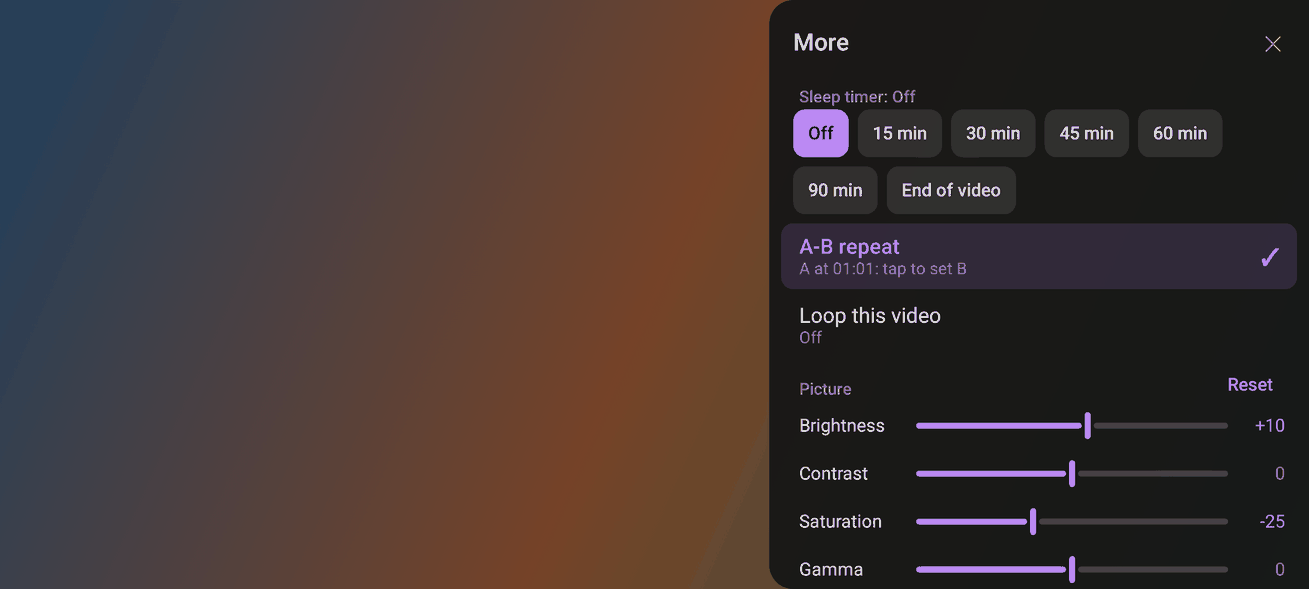
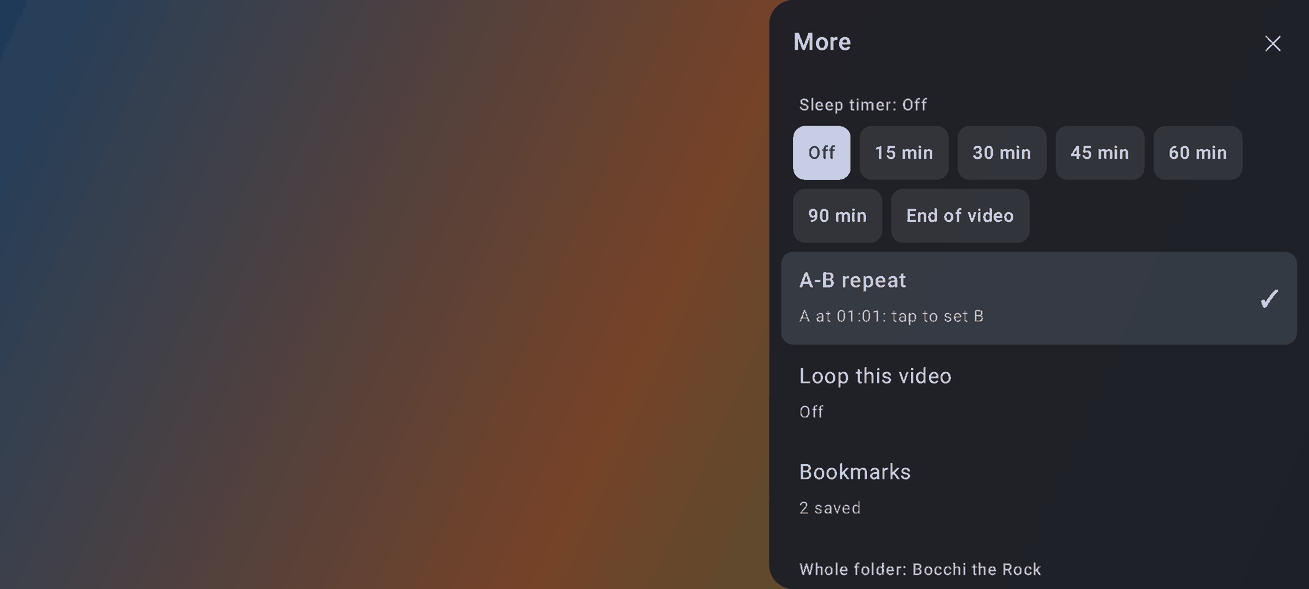
0.8.0 (versionCode 6): changelog, Phase 12 tasks and progress rows, roadmap, README features
- TASKS.md Phase 12 (P12-01..07) with acceptance; PROGRESS rows; P10-06
  closed as won't do on this phone (no ADPF); Gradle row 9.8.2.
- ROADMAP: known issues updated (Anime4K Vulkan-only, subtitle folders,
  ADPF); P6-05 and P8-04 point to tools/overnight.sh.
- AGENT_RULES: shower_check.sh, overnight.sh, release.sh.
- Screenshots: cards, bookmarks, More with Bookmarks and Whole folder,
  Subtitles with the line buttons.

Claude-Session: https://claude.ai/code/session_01PYWonGPXYuoNuvyidgnRsM

diff --git a/app/src/test/java/com/vibeplayer/ui/player/PanelScreenshotTest.kt b/app/src/test/java/com/vibeplayer/ui/player/PanelScreenshotTest.kt
@@ -68,7 +68,7 @@ class PanelScreenshotTest {
 
     @Test
     fun subtitlesLandscape() = shot("subtitles_land") {
-        SubtitleTrackSheet(tracks, selectedTrackId = 2, onSelectTrack = {}, onDismiss = {}, onOpenSync = {}, onLoadSubtitle = {})
+        SubtitleTrackSheet(tracks, selectedTrackId = 2, onSelectTrack = {}, onDismiss = {}, onOpenSync = {}, onLoadSubtitle = {}, onSubSeek = {})
     }
 
     @Test
@@ -108,8 +108,39 @@ class PanelScreenshotTest {
         MoreSheet(
             sleepTimer = null, onSetSleepTimer = {}, abLoopAMs = 61_000L, abLoopBMs = null, onCycleAbLoop = {},
             loopFile = false, onToggleLoopFile = {}, rotationMode = RotationMode.AUTO, onCycleRotation = {}, onDismiss = {},
-            pictureAdjust = com.vibeplayer.player.PictureAdjust(brightness = 10, saturation = -25)
+            pictureAdjust = com.vibeplayer.player.PictureAdjust(brightness = 10, saturation = -25),
+            bookmarkCount = 2, onOpenBookmarks = {},
+            folderShow = FolderShowControls(
+                show = com.vibeplayer.playback.FolderShow("/sdcard/Anime/Bocchi the Rock", speed = 1.25f, autoSkipChapters = true),
+                currentSpeed = 1.25
+            )
         )
+    }
+
+    @Test
+    fun bookmarksLandscape() = shot("bookmarks_land") {
+        BookmarkSheet(
+            bookmarks = listOf(
+                com.vibeplayer.data.db.Bookmark(id = 1, fileKey = "k", positionMs = 95_000L, label = "Opening"),
+                com.vibeplayer.data.db.Bookmark(id = 2, fileKey = "k", positionMs = 812_000L, label = "Part B")
+            ),
+            onAdd = {}, onJump = {}, onDelete = {}, onDismiss = {}
+        )
+    }
+
+    @Test
+    fun cardsLandscape() = shot("cards_land") {
+        Box(Modifier.fillMaxSize()) {
+            ResumeChip(
+                info = com.vibeplayer.playback.ResumeInfo("/a/ep01.mkv", 750_000L, 1L), onStartOver = {},
+                modifier = Modifier.align(Alignment.BottomStart).padding(start = 24.dp, bottom = 40.dp)
+            )
+            UpNextCard(
+                upNext = com.vibeplayer.playback.UpNext("/a/ep01.mkv", "/a/ep02.mkv", "[grp] Bocchi the Rock! - 02.mkv", Long.MAX_VALUE / 2),
+                onPlayNow = {}, onCancel = {},
+                modifier = Modifier.align(Alignment.BottomEnd).padding(end = 24.dp, bottom = 40.dp)
+            )
+        }
     }
 
     @Test

diff --git a/PROGRESS.md b/PROGRESS.md
@@ -12,7 +12,7 @@ Latest stable, looked up from official sources during P0 (AGENT_RULES.md, Depend
 | Android Studio / JetBrains Runtime (build JDK) | 25.0.3 (build 25.0.3+-15898627-b508.16) | /home/rava/.local/share/JetBrains/Toolbox/apps/android-studio/jbr | Android Studio 2026.2.1 |
 | compileSdk / targetSdk | 37 / 37 | platforms;android-37.1 / build-tools 37.0.0 | Matches redwood device Android 17 (SDK 37) |
 | Android Gradle Plugin | 9.4.1 | https://dl.google.com/dl/android/maven2 | latest stable AGP release |
-| Gradle | 9.8.1 | https://services.gradle.org/distributions/ | latest stable Gradle release |
+| Gradle | 9.8.2 | https://services.gradle.org/distributions/ | latest stable Gradle release (2026-10-20; Gradle 10 not released) |
 | Kotlin | 2.4.21 | https://repo1.maven.org/maven2 | latest stable release (built-in AGP 9.4.1) |
 | Compose BOM | 2026.09.00 | https://dl.google.com/dl/android/maven2 | latest stable BOM |
 | Room | 2.8.5 | https://dl.google.com/dl/android/maven2 | latest stable release |
@@ -134,7 +134,7 @@ Latest stable, looked up from official sources during P0 (AGENT_RULES.md, Depend
 | P10-03 | Display cutout | DONE | AGY-1 | pending | Device check 2026-10-15: PlayerActivity layoutInDisplayCutoutMode = ALWAYS; tested in crop/zoom aspect mode; screenshot /tmp/vp_p10_03_zoom.png inspected showing video extending under punch-hole cutout edge-to-edge (2400x1080) and controls inset safely via WindowInsets.displayCutout; check_video.py VIDEO VISIBLE (non_black=79.9%, changed=79.5%). |
 | P10-04 | Back handling audit | DONE | AGY-1 | pending | Device check 2026-10-15: with the speed sheet open, back #1 closed the sheet (PlayerActivity still topResumedActivity); back #2 left the player (PlayerActivity onDestroy, MainActivity top, video list shown); back #3 returned to the folder list (library). No FATAL/ANR in logcat, app process alive (pid 16841) throughout. Manifest has enableOnBackInvokedCallback="true"; all back paths use BackHandler/OnBackPressedDispatcher, zero KEYCODE_BACK dependencies. |
 | P10-05 | Exit diagnostics | DONE | AGY-1 | pending | Device check 2026-10-15: backgrounded MainActivity, ran 'adb shell am kill com.vibeplayer' (process terminated); restarted MainActivity; logcat tag VibeExit logged: 'reason=USER_REQUESTED (10) desc=[KILL BACKGROUND] kill background pss=0 (0MB) rss=204914688 (195MB) timestamp=...'; recent exits also shown in Settings About section. |
-| P10-06 | ADPF performance hints | BLOCKED | CLAUDE-ADPF | pending | Code done; device check 2026-10-15 shows the device does NOT support ADPF, so the acceptance items cannot be met here. Unit tests (AdpfHintPolicyTest, 9) and :app:assembleDebug pass. Setting "Performance hints (experimental)" (default off); PerformanceHintController (IO) holds one session while playing for threads `vo`, `core`, `demux`, `dec/video`, `dav1d-worker*`, `av:*`; reports target or 1.5x target once per second from the drop counters (design in ARCHITECTURE.md); overlay row ADPF. Device check (redwood/lahaina, SDK 37): enabled the setting (verified checked=true + DataStore `performance_hints`), played /sdcard/Movies/vibeplayer-bench/av1_4k30_10bit.mp4 (check_video.py VIDEO VISIBLE, non_black=62.1%, changed=57.3%; VP log container-fps=30.0, hwdec-current=no, 3840x2160). Result: `adb shell dumpsys performance_hint` reports `Hint Session Support: false`, `HintSessionPreferredRate: -1`, `CPU/GPU Headroom Supported: false`, empty `Active Sessions`; `adb logcat -s VP-ADPF` shows `W VP-ADPF : ADPF unsupported: createHintSession returned null` (reproduced twice, incl. after force-stop); overlay shows `ADPF: unsupported` (not "on (n threads)"). Pause produced no "session closed" because no session was ever created. The code behaves exactly as designed for the unsupported case (ARCHITECTURE.md: "Unsupported (no service, null session, 3 throws in a row): logged once per process (VP-ADPF), overlay 'unsupported'"). Setting restored to OFF (checked=false, DataStore `08 00`). LEFT: the acceptance items (overlay "on (n threads)", dumpsys session for com.vibeplayer, created/closed logs on pause) require an ADPF-capable device; the A/B drops/battery comparison is likewise unverifiable here. No new dependencies. |
+| P10-06 | ADPF performance hints | BLOCKED | CLAUDE-ADPF | pending | Closed as won't do on this phone (2026-10-20): it has no ADPF support, so the acceptance can never be met here; the code stays, setting off. Code done; device check 2026-10-15 shows the device does NOT support ADPF, so the acceptance items cannot be met here. Unit tests (AdpfHintPolicyTest, 9) and :app:assembleDebug pass. Setting "Performance hints (experimental)" (default off); PerformanceHintController (IO) holds one session while playing for threads `vo`, `core`, `demux`, `dec/video`, `dav1d-worker*`, `av:*`; reports target or 1.5x target once per second from the drop counters (design in ARCHITECTURE.md); overlay row ADPF. Device check (redwood/lahaina, SDK 37): enabled the setting (verified checked=true + DataStore `performance_hints`), played /sdcard/Movies/vibeplayer-bench/av1_4k30_10bit.mp4 (check_video.py VIDEO VISIBLE, non_black=62.1%, changed=57.3%; VP log container-fps=30.0, hwdec-current=no, 3840x2160). Result: `adb shell dumpsys performance_hint` reports `Hint Session Support: false`, `HintSessionPreferredRate: -1`, `CPU/GPU Headroom Supported: false`, empty `Active Sessions`; `adb logcat -s VP-ADPF` shows `W VP-ADPF : ADPF unsupported: createHintSession returned null` (reproduced twice, incl. after force-stop); overlay shows `ADPF: unsupported` (not "on (n threads)"). Pause produced no "session closed" because no session was ever created. The code behaves exactly as designed for the unsupported case (ARCHITECTURE.md: "Unsupported (no service, null session, 3 throws in a row): logged once per process (VP-ADPF), overlay 'unsupported'"). Setting restored to OFF (checked=false, DataStore `08 00`). LEFT: the acceptance items (overlay "on (n threads)", dumpsys session for com.vibeplayer, created/closed logs on pause) require an ADPF-capable device; the A/B drops/battery comparison is likewise unverifiable here. No new dependencies. |
 | P10-07 | ProfilingManager triggers | DONE | AGY-1 | 30b4a3a | ProfilingManager triggers (ANOMALY, ANR, APP_FULLY_DRAWN) registered behind setting "Collect system profiles" (default OFF); result callback registered with tag VP-Prof on background executor; debug adb broadcast action system_trace/REQUEST_PROFILING for 10 s trace; unit tests pass; device check open. |
 | P10-08 | HDR output spike | DONE | AGY-1 | pending | Source analysis complete in docs/HDR.md with file:line citations: GLES is NO-GO (hardcoded SDR monitor, null attrib_list/hints); Vulkan vo=gpu is NO-GO; Vulkan vo=gpu-next is CONDITIONAL GO for PQ and HLG via libplacebo swapchain colorspace selection and SetHdrMetadataEXT (extended-range scRGB is NO-GO); app-side Window.colorMode, SurfaceView 10-bit format, and concrete device test plan documented. |
 | P10-10 | Background-audio hardening (Android 17) | DONE | CLAUDE-BGAUDIO | pending | Code + device checks done. Audit in docs/BG_AUDIO.md; fixes: foreground service started before focus request/resume (media session play, focus-gain resume, skip), foreground kept through transient focus loss, resume refused when the service cannot go foreground. Unit tests pass (`:player:testDebugUnitTest :app:testDebugUnitTest`). Device (Android 17, targetSdk 37, `cmd audio set-hardening throw`, restored to `disable` after): (a) Home + 60s screen-off still PLAYING; (c) media-key PLAY from the detached state (boundClients=0, service detached) resumes and re-enters foreground; (d) media-key NEXT from the detached state skips and resumes; (e) auto-advance with screen off; (f) simulated transient focus loss then gain resumes; (g) 10-min paused timeout destroys the service (`Destroy ServiceRecord`), then reopening the app plays with `Background started FGS: Allowed ... allowWiu:12`; (h) PiP playback + auto-advance. No `AudioHardening ... com.vibeplayer` line and no `Audio focus denied` in any case (last hardening line for the app is 00:34, before the fix). Case (b) (pause from the notification, then play from the notification) is NOT triggerable via adb: the service is not exported and the media notification is not in the uiautomator dump / is suppressed in PiP — left for the user to check by hand. Reviewer fix 2026-10-16: PiP onStop keeps playing only when the screen is off (PowerManager.isInteractive false) and background audio is on; a mini player closed by the user pauses again. |
@@ -151,6 +151,13 @@ Latest stable, looked up from official sources during P0 (AGENT_RULES.md, Depend
 | P11-11 | Subtitle text style | IN PROGRESS | CLAUDE-CLOUD | 4e3cd82 | 2026-10-20, cloud, no phone. Builds, unit tests pass, panels checked in Robolectric screenshots (docs/screenshots/panels). SubtitleSyncTest (2 new); option names and defaults from mpv 0.41 sub/osd.c. Left: device acceptance in TASKS.md. |
 | P11-12 | Equalizer | IN PROGRESS | CLAUDE-CLOUD | 1afe74d | 2026-10-20, cloud, no phone. Builds, unit tests pass, panels checked in Robolectric screenshots (docs/screenshots/panels). AudioFiltersTest (6). Left: device acceptance in TASKS.md. |
 | P11-13 | Browser extras | IN PROGRESS | CLAUDE-CLOUD | see git log (P11-13) | 2026-10-20, cloud, no phone. Builds, unit tests pass, panels checked in Robolectric screenshots (docs/screenshots/panels). WatchProgressTest, VideoSearchTest (ranking), BrowserScreenshotTest. Left: device acceptance in TASKS.md. |
+| P12-01 | Resume chip | IN PROGRESS | CLAUDE-CLOUD | see git log (P12-01) | 2026-10-20, cloud, no phone. Builds, unit tests, cards_land screenshot. Next: `p12_resume_chip` in tools/shower_check.sh. |
+| P12-02 | Up next countdown | IN PROGRESS | CLAUDE-CLOUD | see git log (P12-02) | 2026-10-20, cloud, no phone. UpNextTest, cards_land screenshot. Next: `p12_up_next`; the old autoplay and pip_autoadvance checks must still pass (5 s later). |
+| P12-03 | Bookmarks | IN PROGRESS | CLAUDE-CLOUD | see git log (P12-03) | 2026-10-20, cloud, no phone. Room 5 -> 6 (DatabaseMigration5To6Test), bookmarks_land screenshot. Next: `p12_bookmarks`, and an update install keeps the history (migration on the phone). |
+| P12-04 | Per-show (folder) speed and auto-skip | IN PROGRESS | CLAUDE-CLOUD | see git log (P12-04) | 2026-10-20, cloud, no phone. more_land screenshot. Next: `p12_folder_speed`, `p12_folder_lang`. |
+| P12-05 | Rename and delete from the browser | IN PROGRESS | CLAUDE-CLOUD | see git log (P12-05) | 2026-10-20, cloud, no phone. VideoFileActionsTest. Next: by hand (MANUAL p12_browser_tools): the Android consent dialog, then the list updates. |
+| P12-06 | Hidden folders | IN PROGRESS | CLAUDE-CLOUD | see git log (P12-06) | 2026-10-20, cloud, no phone. HiddenFolderTest. Next: by hand (MANUAL p12_browser_tools). |
+| P12-07 | Rotated phone clips upright; previous/next subtitle line | IN PROGRESS | CLAUDE-CLOUD | see git log | 2026-10-20, cloud, no phone. VideoRotationTest. Next: `p12_rotated_clip`, `p12_sub_line`. |
 | STAB-01 | Stability audit | DONE | CLAUDE-STAB | pending | Audit of lifecycle, threading, JNI, Room, DataStore, MediaStore, and lint. Hardened mpv_jni.c NULL/exception checks; verified Room migrations 1..5 in DatabaseMigrationTest; added DataStore corruption handler and catch for IOExceptions; added MediaStore SecurityException & missing column guards; moved container-fps read off mpv event thread; gated callbacks on !released; cancelled vulkan/gles checks and scope in PlayerEngine.release(); managed service observation coroutines in PlayerViewModel; resolved 42 lint errors (:app:lintDebug clean); noted ThumbnailEngine native extractor hr-seek=no keyframe limitation for reviewer. |
 
 

diff --git a/docs/ROADMAP.md b/docs/ROADMAP.md
@@ -31,14 +31,15 @@ Source of truth for task status is `PROGRESS.md` and `TASKS.md`; this is a summa
 - P7-03 recomposition counts with the controls visible; P7-06 a 10-minute power comparison (the P1-06 baseline
   has no power figure); P7-07 memory "before" values and seek-back and drop checks with the smaller cache (the
   targets themselves are met: 216 MB at 1080p, 110 MB in the browser after playback).
-- P8-01 a test shader visibly applied and removed; P8-02 Anime4K on OpenGL ES (compile fix in progress);
-  P8-03 GSR sharpening on a 720p clip.
+- P8-01 a test shader visibly applied and removed; P8-03 GSR sharpening on a 720p clip.
+- P11 and P12 (player extras, watching series): the by-hand checks in PROGRESS.md; P12 automatic checks in
+  `tools/shower_check.sh`.
 - HEVC 10-bit 4K drops: operating-rate hint to the decoder, confirmed by a device A/B, fix in progress.
 
 ## Planned
 
-- P6-04 / P6-05: 5-minute matrix and 30-minute stability runs per renderer.
-- P8-04: shader benchmark (5 minutes per preset on 1080p).
+- P6-04 / P6-05: 5-minute matrix and 30-minute stability runs per renderer (P6-05 in `tools/overnight.sh`).
+- P8-04: shader benchmark (5 minutes per preset on 1080p, Vulkan; in `tools/overnight.sh`).
 - P9: tuned native build (`-mcpu=cortex-a78`, ThinLTO) and comparison against the baseline build.
 
 ## Known issues
@@ -47,8 +48,10 @@ Source of truth for task status is `PROGRESS.md` and `TASKS.md`; this is a summa
   in 20 cold opens on the default copy-back row, 4 in 20 on zero-copy). The watchdog abandons the stuck handle
   and reopens the file within 6 to 10 s; none stayed black in 160 test opens, and no ANR in the
   60-open run that recorded it. The stall itself is not fixed.
-- Anime4K presets fail to compile one pass on OpenGL ES (fix in progress).
-- External subtitle files next to a video are not auto-loaded on Android 13+ (video-only storage access).
+- Anime4K runs on Vulkan only: the Adreno OpenGL ES compiler rejects its passes (0.7.0 shows a notice instead).
+- Subtitle files next to a video load automatically only from folders granted in Settings > Subtitle folders
+  (the app may only read videos on its own).
+- ADPF performance hints (P10-06) do nothing on this phone: it has no ADPF support.
 - Vulkan is experimental and depends on the owner's unfinished driver port.
 - The release is signed with a debug key (see README).
 

diff --git a/TASKS.md b/TASKS.md
@@ -811,3 +811,33 @@ audibly stronger in the bass without clipping; the mpv log shows the af change w
 rule), results ranked prefix / phrase / rest. *Accept*: a finished episode shows ✓ in the folder and search;
 "bocchi the rock" lists names that start with it first.
 
+## Phase 12: watching series (user request 2026-10-20)
+
+Built in a cloud session without the phone; `tools/shower_check.sh` runs the device checks (checks_p12.py) and
+`tools/overnight.sh` the long runs (P6-05, P8-04, full regression).
+
+**P12-01 Resume chip** — after a file opens at its saved position, "Resumed at 12:30 / Start over" for 8 s (bottom
+left); Start over seeks to 0. *Accept*: `p12_resume_chip` passes.
+
+**P12-02 Up next countdown** — at the end of a file with Auto-play next on, an "Up next" card with the next file's
+name counts down (Settings: Off, 5, 10, 15 s; default 5) with Play now and Cancel; seeking back or opening another
+file drops it; in PiP the card is hidden and the countdown still runs. *Accept*: `p12_up_next`, `autoplay` and
+`pip_autoadvance` pass.
+
+**P12-03 Bookmarks** — Room 6 `bookmarks` (file key, position, chapter label); More > Bookmarks: + Here, tap to
+jump, x to delete. *Accept*: `p12_bookmarks` passes; an update install over 0.7.0 keeps the history.
+
+**P12-04 Per-show settings** — folder_settings gains speed and autoSkipChapters. More > Whole folder: use the
+current speed for every file of the folder that has no speed of its own; auto-skip App / On / Off for the folder.
+*Accept*: `p12_folder_speed` and `p12_folder_lang` pass.
+
+**P12-05 Rename and delete** — long-press a video (folder view, search): Rename or Delete through MediaStore write /
+delete requests (the app only reads media); history and bookmarks move with a rename and go with a delete.
+*Accept*: by hand (MANUAL p12_browser_tools).
+
+**P12-06 Hidden folders** — long-press a folder > Hide; hidden folders are left out of the list, search and Continue
+Watching; Settings > Library > Hidden folders shows them again. *Accept*: by hand (MANUAL p12_browser_tools).
+
+**P12-07 Small fixes** — the engine reports the video size after the container rotation (`video-params/rotate`),
+so clips filmed upright open in portrait with a portrait PiP; Previous / Next line in the Subtitles panel (mpv
+`sub-seek`). *Accept*: `p12_rotated_clip`, `p12_sub_line` pass.

diff --git a/README.md b/README.md
@@ -5,7 +5,7 @@
 <p align="center">
   <img alt="License: GPL-3.0-or-later" src="https://img.shields.io/badge/license-GPL--3.0--or--later-blue">
   <img alt="Platform: Android 17 arm64" src="https://img.shields.io/badge/platform-Android%2017%20%7C%20arm64--v8a-green">
-  <img alt="Version 0.7.0" src="https://img.shields.io/badge/version-0.7.0-orange">
+  <img alt="Version 0.8.0" src="https://img.shields.io/badge/version-0.8.0-orange">
 </p>
 
 Vibe Player is a personal Android video player built on libmpv, with MX Player-style touch gestures,
@@ -44,7 +44,12 @@ Features marked **beta** are merged but their device check is not finished (see 
 - Subtitle size, position and ASS style override settings
 - Speed 0.25x to 4x with pitch correction; aspect modes (fit, crop, stretch, 16:9, 4:3)
 - Per-file memory of position, tracks, speed and aspect; per-folder track memory and default languages
-- Auto-play of the next file in the folder; previous / next
+- Auto-play of the next file in the folder with an "Up next" countdown; previous / next
+- Watching series: chapters with skip opening / ending (and auto-skip), a resume chip with Start over, bookmarks, and speed or auto-skip set for a whole folder
+- Sound: volume boost to 200 %, night mode, a 10-band equalizer, and ViPER4Android / equalizer apps see the player's audio
+- More panel: sleep timer, A-B repeat, loop, rotate, frame step, picture adjustments (brightness, contrast, saturation, gamma)
+- Subtitles: automatic loading from chosen folders, legacy encodings (Arabic, Cyrillic, CJK and others), text colour, outline and background box, previous / next line
+- Browser: search across all videos, watched marks, hide folders, rename and delete (with Android's consent)
 - Picture-in-picture mini player with aspect-ratio clamping, auto-enter on home, and auto-advance inside the mini player
 - Background playback in a foreground service with a media notification (**beta**)
 - Folder browser with thumbnails (software thumbnails for AV1 and 10-bit video with dark-frame detection) and a Continue Watching row with progress bars

diff --git a/CHANGELOG.md b/CHANGELOG.md
@@ -5,6 +5,31 @@ All notable changes to this project will be documented in this file.
 The format is based on [Keep a Changelog](https://keepachangelog.com/en/1.1.0/),
 and this project adheres to [Semantic Versioning](https://semver.org/spec/v2.0.0.html).
 
+## [0.8.0] - unreleased (versionCode 6)
+
+Built in a cloud session without the phone; `tools/shower_check.sh` runs the device checks.
+
+### Added
+- **Resume chip (P12-01)**: a video opened at its saved position shows "Resumed at 12:30" with Start over for 8 s.
+- **Up next countdown (P12-02)**: when a video ends and Auto-play next is on, a card counts down to the next file
+  (Settings: Off, 5, 10 or 15 s) with Play now and Cancel.
+- **Bookmarks (P12-03)**: More > Bookmarks saves spots in a video (named after the chapter), jumps back, deletes.
+- **Per-show settings (P12-04)**: More > Whole folder uses the current speed for every file of the folder, and
+  turns auto-skip of openings and endings on or off for that folder only.
+- **Rename and delete (P12-05)**: long-press a video in the browser; Android asks for permission first. Position,
+  tracks and bookmarks follow a renamed file.
+- **Hidden folders (P12-06)**: long-press a folder to hide it; Settings > Library > Hidden folders shows it again.
+- **Previous / next subtitle line**: two buttons in the Subtitles panel to hear a line again or skip ahead.
+- **Device scripts**: `tools/shower_check.sh` (the P12 checks, about 10 minutes) and `tools/overnight.sh` (30-minute
+  stability runs, the shader benchmark and the full regression).
+
+### Fixed
+- Videos filmed upright on a phone (stored landscape with a 90 degree rotation flag) opened in landscape and got a
+  landscape mini player; the player now uses the size after rotation.
+
+### Changed
+- Gradle 9.8.2; CI runs on release tags and by hand only.
+
 ## [0.7.0] - 2026-10-20 (versionCode 5)
 
 Every automatic device check passes on the phone (2026-10-20). The by-ear and by-eye checks listed in

diff --git a/AGENT_RULES.md b/AGENT_RULES.md
@@ -101,6 +101,9 @@ Filled in and kept current by the tasks that create them (P0-06, P0-07).
 | Run benchmark matrix (P6-03) | `python3 tools/bench/run_matrix.py [--matrix short\|av1_attribution\|stability\|shaders] [--allow-charging]` |
 | Is video really visible? | `tools/check_video.py` (exit 0 = visible, 1 = black/frozen) |
 | P4-15 / P11 / P8-02 device checks in one go (owner, no agent needed; `--full`, `--no-build`) | `tools/phone_check.sh` |
+| P12 device checks, about 10 min (owner; `--no-build`) | `tools/shower_check.sh` |
+| Long runs overnight, phone charging: P6-05, P8-04, full regression (owner; `--no-build`) | `tools/overnight.sh` |
+| Publish a release from main (owner's PC, signing key) | `tools/release.sh` |
 
 ## Code conventions
 - Follow ARCHITECTURE.md for packages, threading and state flow. If the code must deviate, update
